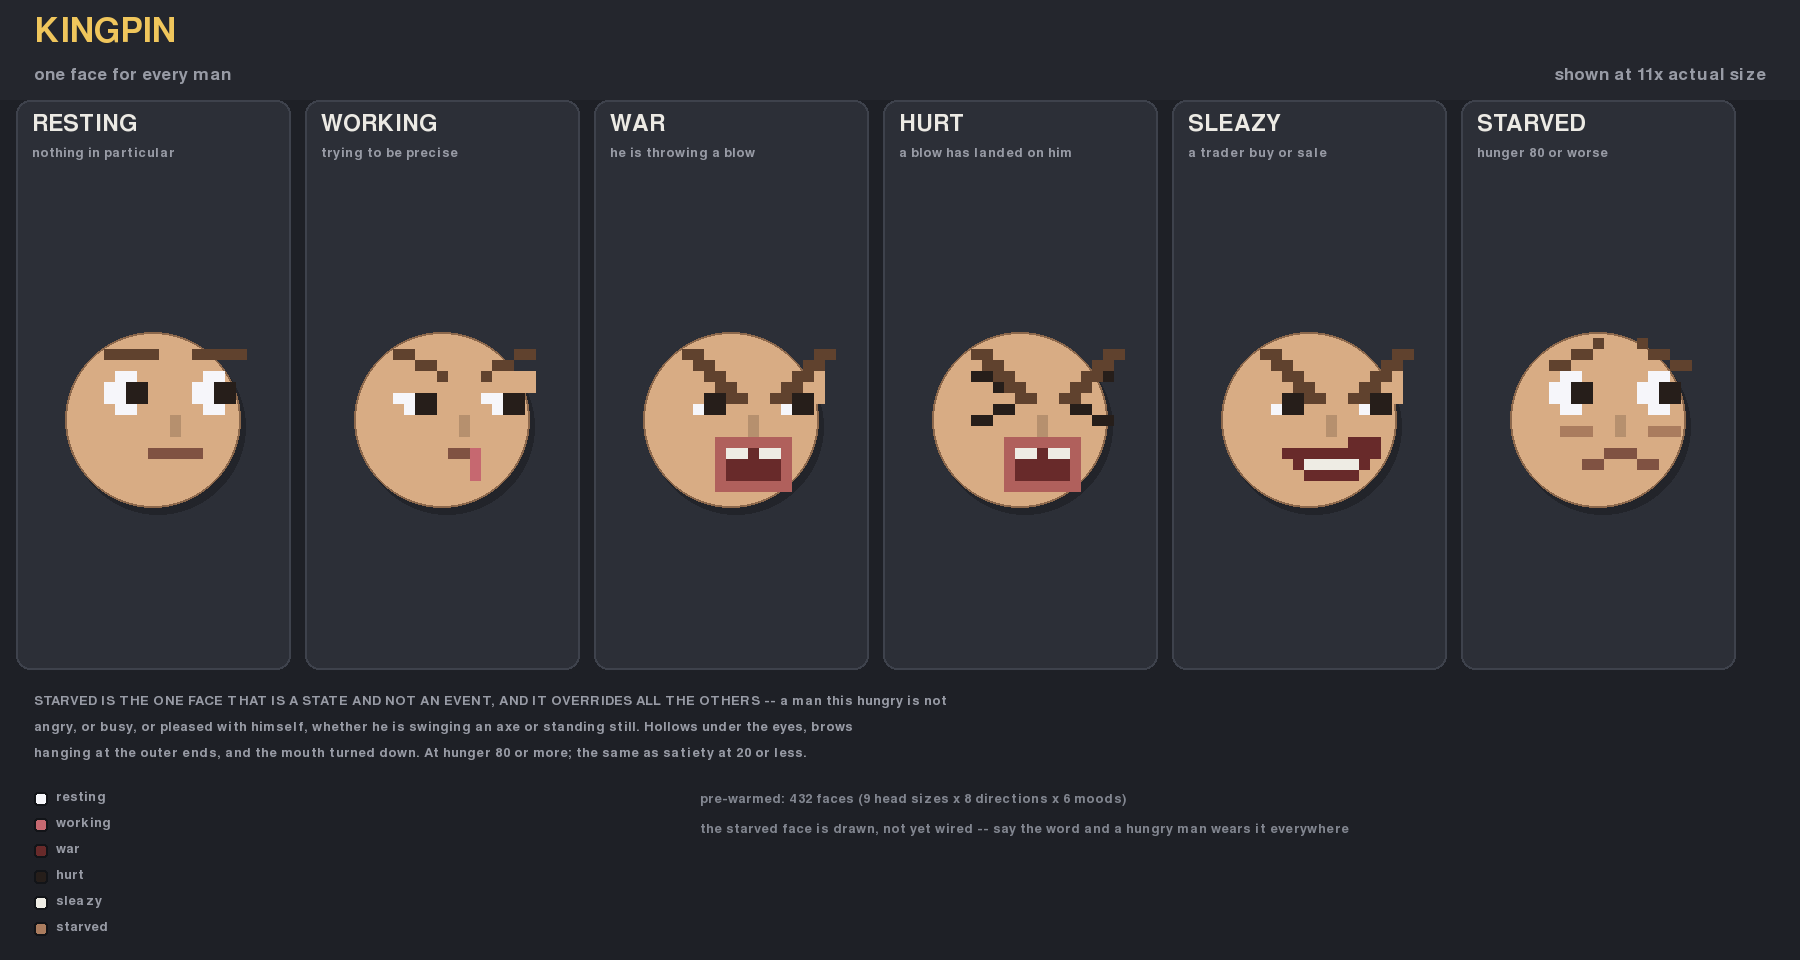
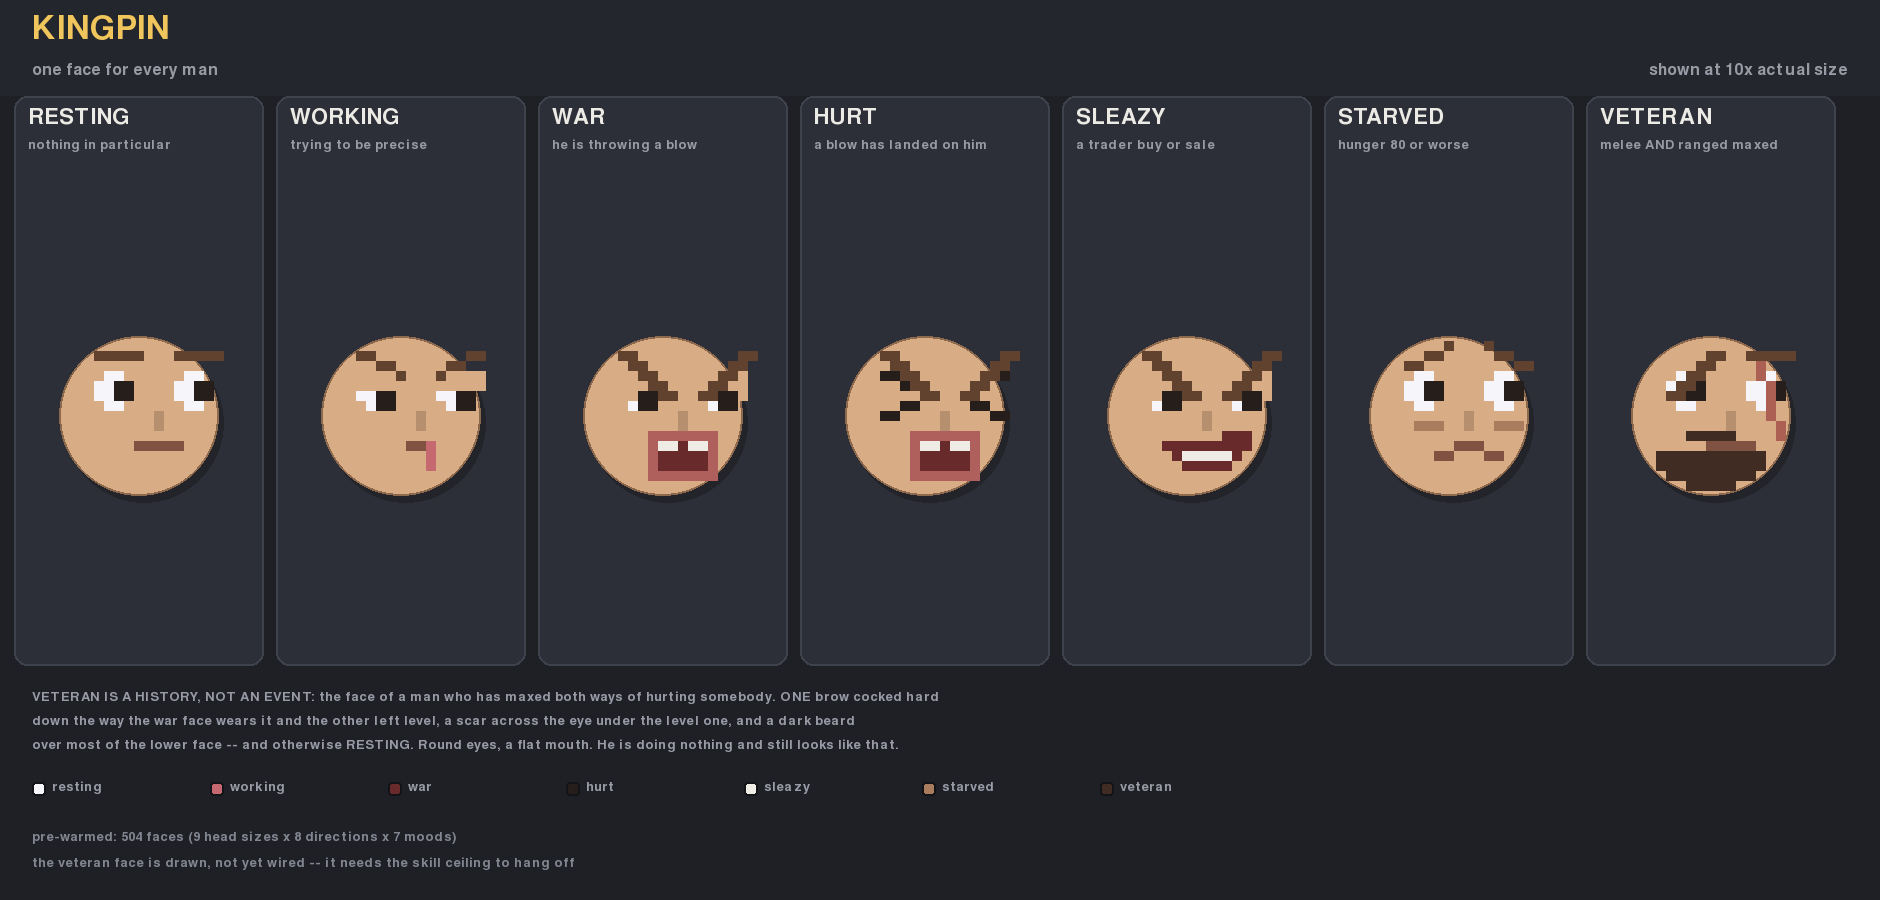
face: the veteran -- one brow cocked, a scar, and a dark beard
The most extreme rung of the combat progression: a man who has maxed BOTH
melee and ranged. Three marks and nothing else.

    NORMAL                 | WAR                    | VETERAN
    .......-----...-----...| .......--..........--..| ...........--..-----...
    .......................| ........--........--...| ..........--....X......
    ........OO......OO.....| .......  -- ...  -- ...| ........O--.....XO.....
    .......OO@@....OO@@....| .......   --... --  ...| .......O--@....OOX@....
    .......OO@@....OO@@....| .......  @@--..--@@ ...| .......--@@....OOX@....
    ........OO......OO.....| ........O@@.....O@@....| ........OO......OX.....
    .............|.........| .............|.........| .............|...X.....
    .............|.........| .............|.........| .............|....X....
    ...........uuuuu.......| ..........XXXXXXX......| .........BBBBB....X....
                           | ..........X     X......| ...........uuuuu.......
                           | ..........X     X......| ......BBBBBBBBBBB......
                           | ..........X     X......| ......BBBBBBBBBBB......
                           | ..........XXXXXXX......| .......BBBBBBBBB.......
                                                      | .........BBBBB.........

  X = the scar, B = the beard

ONE BROW DOWN AND ONE LEVEL. -1 is the war brow taken straight from the war
face, so the two are literally the same mark on the two faces; +1 is the
[…]

diff --git a/face.py b/face.py
@@ -32,6 +32,8 @@ TONGUE = (198, 104, 112)     # the working face's whole point
 MAW = (104, 42, 42)         # an open, shouting mouth -- the war face
 LIP = (176, 96, 92)         # one pixel of lip, all the way round it
 SOCKET = (170, 124, 94)     # the hollow a starving man's eye sits down in
+SCAR = (172, 96, 84)        # a line of it across the face
+BEARD = (64, 44, 34)        # dark, and most of the lower face
 TOOTH = (238, 236, 228)     # two of them, at the top of it
 LID = None                  # filled with the skin at draw time
 
@@ -117,6 +119,68 @@ def _render(screen, hx: float, hy: float, r: int, fx: float, fy: float,
     angry = (mood == "angry")
     hurt = (mood == "hurt")
     sly = (mood == "sly")
+
+    if mood == "veteran":
+        # THE OLD SOLDIER. Not an event and not a state but a HISTORY: the face
+        # of a man who has maxed every way there is of hurting somebody. Three
+        # things and nothing else -- ONE eyebrow cocked hard down the way the
+        # war face wears it and the other left level, a scar across the eye
+        # under the level one, and a dark beard over most of the lower face.
+        #
+        # He is otherwise RESTING. Round eyes, a flat mouth. The whole point is
+        # that he is not doing anything at all and still looks like that.
+        for sgn in (-1, 1):
+            cx = ix + sgn * sep
+            pygame.draw.circle(screen, WHITE, (cx, iy), wr)
+            pygame.draw.circle(screen, EYE,
+                               (cx + int(round(fx * wr * 0.45)),
+                                iy + int(round(fy * wr * 0.45))), pr)
+
+        # ONE BROW DOWN AND ONE LEVEL. -1 is the war brow, taken straight from
+        # the war face so the two are the same mark; +1 is the resting one.
+        for sgn in (-1, 1):
+            cx = ix + sgn * sep
+            if sgn < 0:
+                by = int(round(iy - wr - r * 0.04))
+                bw = max(1, int(round(r * 0.26)))
+                tw = max(2, r // 5)
+                pygame.draw.line(screen, BROW, (cx + bw, by - tw),
+                                 (cx - bw, by + tw), tw)
+            else:
+                by = int(round(iy - wr - r * 0.20))
+                bw = max(1, int(round(r * 0.20)))
+                tw = max(1, r // 6)
+                pygame.draw.line(screen, BROW, (cx - bw, by), (cx + bw, by), tw)
+
+        if r >= 6:
+            pygame.draw.line(screen, NOSE, (ix, iy + wr),
+                             (ix, int(round(hy + r * NOSE_DOWN))), 1)
+
+        # THE BEARD, AND IT FOLLOWS THE JAW. Rows down from the lip line, each
+        # one as wide as the HEAD still is at that depth -- computed from the
+        # circle rather than guessed, so it sits on the face instead of
+        # hanging off the sides of it.
+        hc, vc = int(round(hx)), int(round(hy))
+        m_y = int(round(hy + r * MOUTH_DOWN))
+        for dy in range(4, r + 1):
+            y = vc + dy
+            hw = int(math.sqrt(max(0.0, r * r - dy * dy))) - 1
+            if hw < 1:
+                continue
+            pygame.draw.line(screen, BEARD, (hc - hw, y), (hc + hw, y), 1)
+        # ...and a moustache over the lip, so the mouth has something to sit in
+        pygame.draw.line(screen, BEARD, (hc - max(2, r // 3), m_y - 1),
+                         (hc + max(2, r // 3), m_y - 1), 1)
+        # THE MOUTH, ON TOP OF THE BEARD, or it would vanish into it.
+        hw = max(1, int(round(r * 0.26)))
+        pygame.draw.line(screen, MOUTH, (ix - hw, m_y), (ix + hw, m_y),
+                         max(1, r // 8))
+        # AND THE SCAR, ACROSS THE EYE UNDER THE LEVEL BROW -- last, so it
+        # crosses the white and the pupil rather than being hidden by them.
+        cx = ix + sep
+        pygame.draw.line(screen, SCAR, (cx - max(1, r // 6), iy - wr - 1),
+                         (cx + max(1, r // 6), iy + wr + 2), 1)
+        return
 
     if mood == "starved":
         # THE STARVED FACE. The ONLY mood that is a state rather than an event,
@@ -333,7 +397,7 @@ def mood_of(hurt_flash: float, attack_flash: float,
 
 def warm(radii=range(4, 13), dirs=DIRS,
          moods=("normal", "focus", "angry", "hurt", "sly",
-                  "starved")) -> int:
+                  "starved", "veteran")) -> int:
     """Build every face the game can ask for BEFORE the first frame.
 
     A cache miss in the middle of a frame is twelve draw calls where the frame
